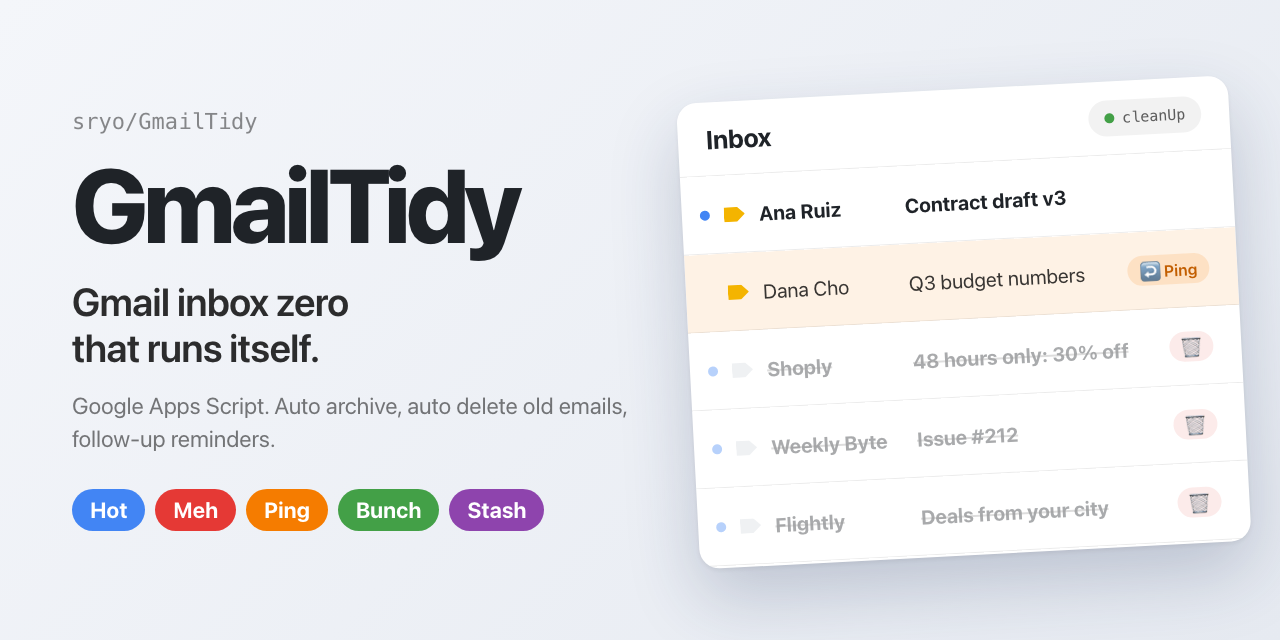
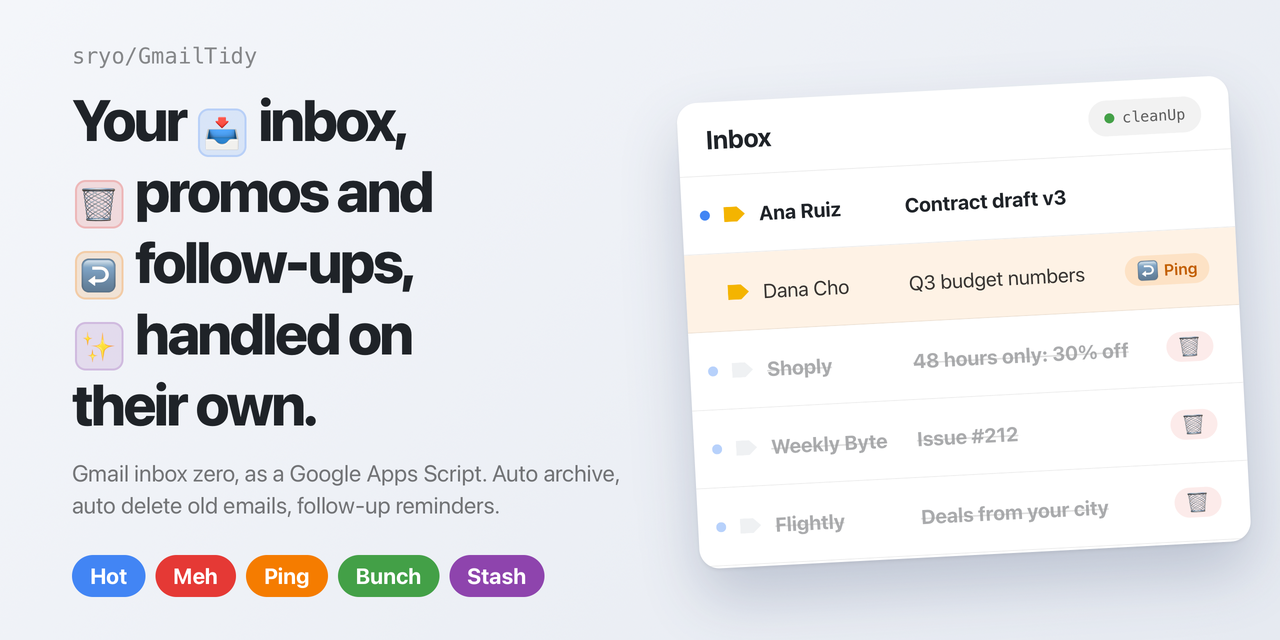
Match the social preview to the README hero
The card leads with the hero headline and its tinted emoji tiles, one
tile per line. The tile style moves into base.css so both pages share it.

diff --git a/assets/src/social.html b/assets/src/social.html
@@ -8,8 +8,7 @@
   body { background: linear-gradient(135deg, #f4f6fa 0%, #e6eaf1 100%); }
   .copy { position: absolute; left: 72px; top: 0; bottom: 0; width: 580px; display: flex; flex-direction: column; justify-content: center; }
   .repo { font-family: 'SF Mono', Menlo, monospace; font-size: 22px; color: rgba(0,0,0,.45); margin-bottom: 18px; }
-  h1.title { font-size: 104px; font-weight: 800; letter-spacing: -0.045em; line-height: 1; }
-  .tagline { font-size: 39px; font-weight: 600; letter-spacing: -0.02em; line-height: 1.18; margin-top: 22px; color: rgba(0,0,0,.82); }
+  h1.title { font-size: 58px; white-space: nowrap; font-weight: 800; letter-spacing: -0.045em; line-height: 1.14; }
   .sub { font-size: 23px; color: rgba(0,0,0,.52); margin-top: 20px; line-height: 1.4; }
   .five { display: flex; gap: 10px; margin-top: 34px; }
   .five span { font-size: 22px; font-weight: 700; height: 42px; padding: 0 18px; border-radius: 999px; display: flex; align-items: center; color: #fff; }
@@ -35,9 +34,8 @@
 <body>
   <div class="copy">
     <div class="repo">sryo/GmailTidy</div>
-    <h1 class="title">GmailTidy</h1>
-    <div class="tagline">Gmail inbox zero<br>that runs itself.</div>
-    <div class="sub">Google Apps Script. Auto archive, auto delete old emails, follow-up reminders.</div>
+    <h1 class="title">Your <span class="t" style="--c:var(--hot)"><span>📥</span></span> inbox,<br><span class="t" style="--c:var(--meh)"><span>🗑</span></span> promos and<br><span class="t" style="--c:var(--ping)"><span>↩</span></span> follow-ups,<br><span class="t" style="--c:var(--stash)"><span>✨</span></span> handled on<br>their own.</h1>
+    <div class="sub">Gmail inbox zero, as a Google Apps Script. Auto archive, auto delete old emails, follow-up reminders.</div>
     <div class="five">
       <span style="background:var(--hot)">Hot</span>
       <span style="background:var(--meh)">Meh</span>

diff --git a/assets/src/hero.html b/assets/src/hero.html
@@ -7,8 +7,6 @@
   html, body { width: 1280px; height: 240px; background: transparent; }
   body { display: flex; align-items: center; padding: 0 8px; }
   h1 { font-size: 76px; font-weight: 800; letter-spacing: -0.045em; line-height: 1.12; }
-  .t { display: inline-flex; align-items: center; justify-content: center; width: 1.02em; height: 1.02em; border-radius: 22%; font-size: 0.82em; vertical-align: -0.1em; margin: 0 0.06em; background: color-mix(in srgb, var(--c) 14%, transparent); box-shadow: inset 0 0 0 2px color-mix(in srgb, var(--c) 22%, transparent); }
-  .t span { font-size: 0.72em; letter-spacing: 0; }
   @media (prefers-color-scheme: dark) {
     h1 { color: #f0f3f6; }
     .t { background: color-mix(in srgb, var(--c) 26%, transparent); box-shadow: inset 0 0 0 2px color-mix(in srgb, var(--c) 40%, transparent); }

diff --git a/assets/src/base.css b/assets/src/base.css
@@ -64,3 +64,6 @@ body {
 .cap b.meh { color: var(--meh); }
 .cap b.ping { color: var(--ping); }
 .cap b.burn { color: var(--text); }
+/* Emoji tile inside a headline, tinted by --c (hero, social preview). */
+.t { display: inline-flex; align-items: center; justify-content: center; width: 1.02em; height: 1.02em; border-radius: 22%; font-size: 0.82em; vertical-align: -0.1em; margin: 0 0.06em; background: color-mix(in srgb, var(--c) 14%, transparent); box-shadow: inset 0 0 0 2px color-mix(in srgb, var(--c) 22%, transparent); }
+.t span { font-size: 0.72em; letter-spacing: 0; }
